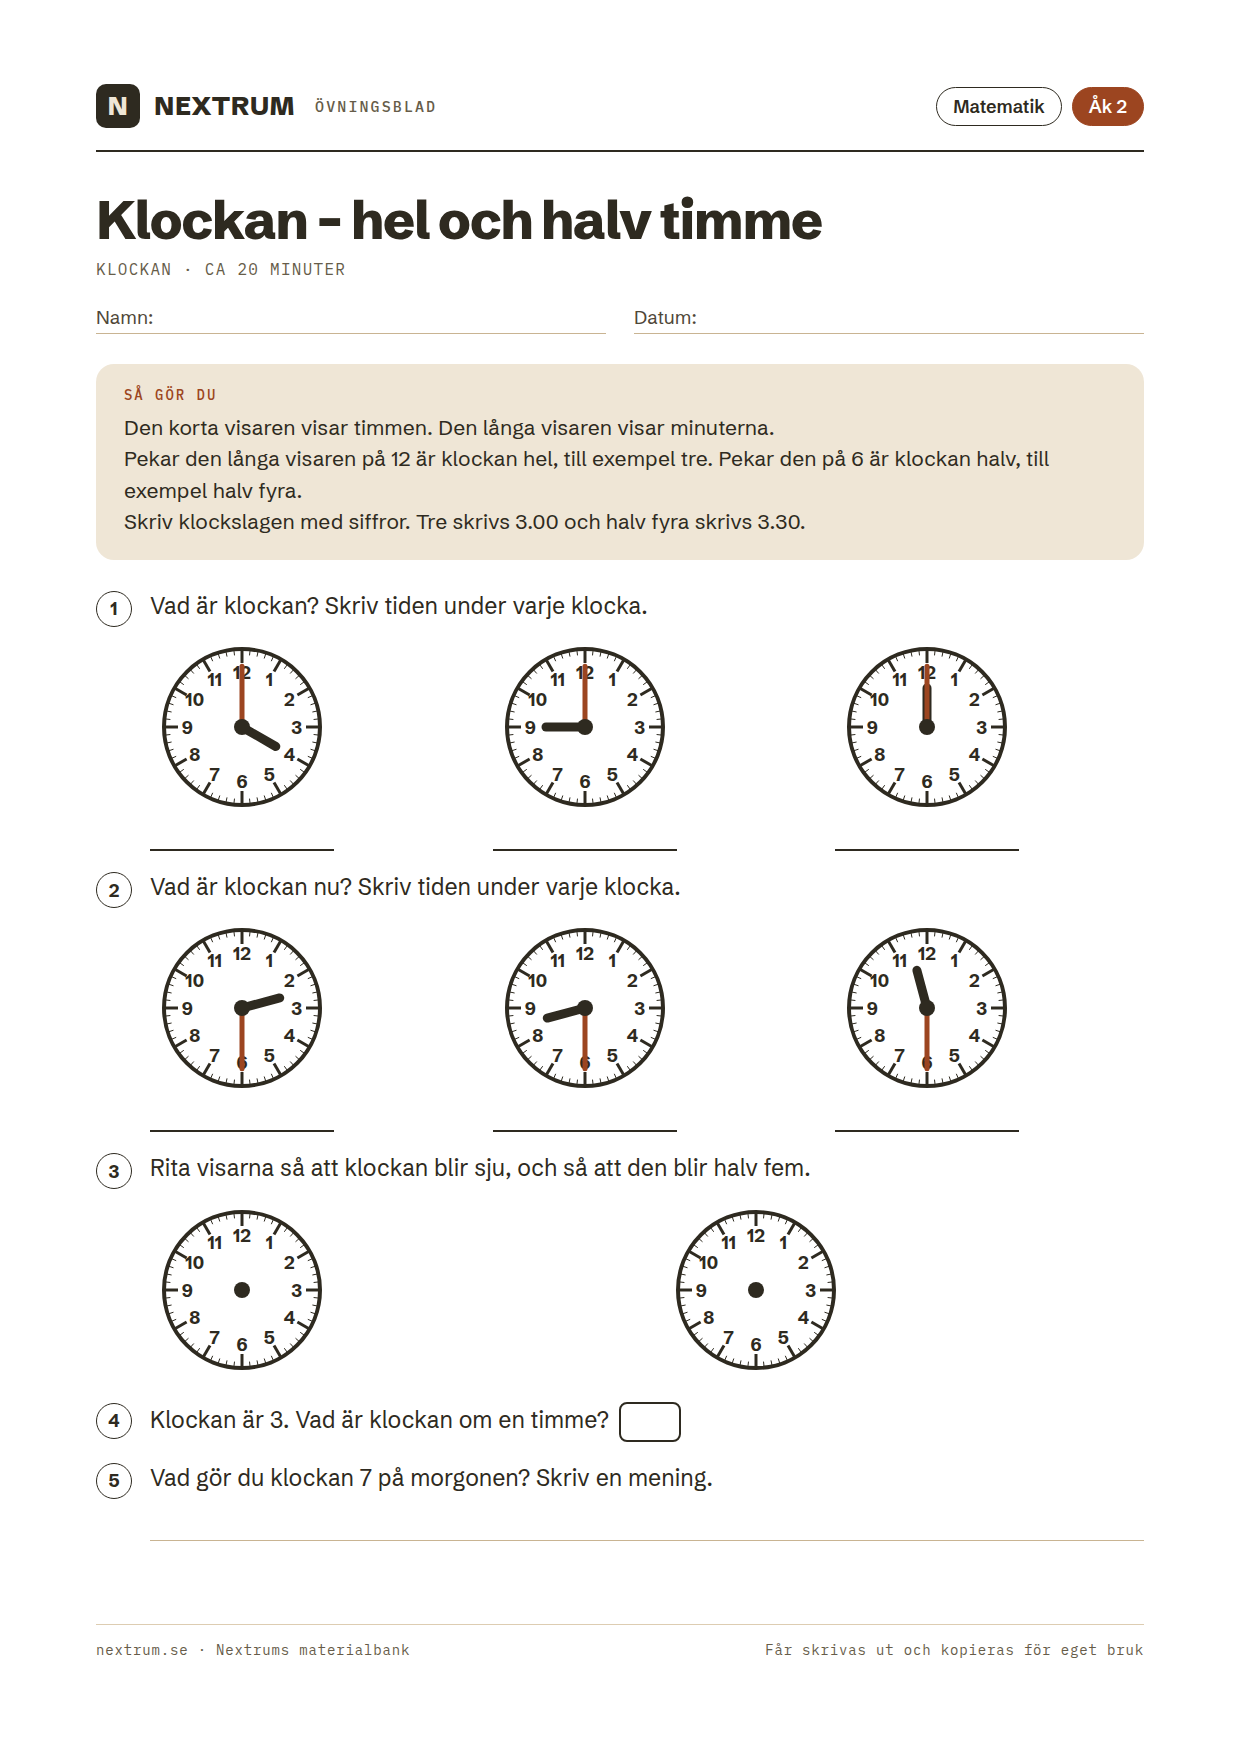
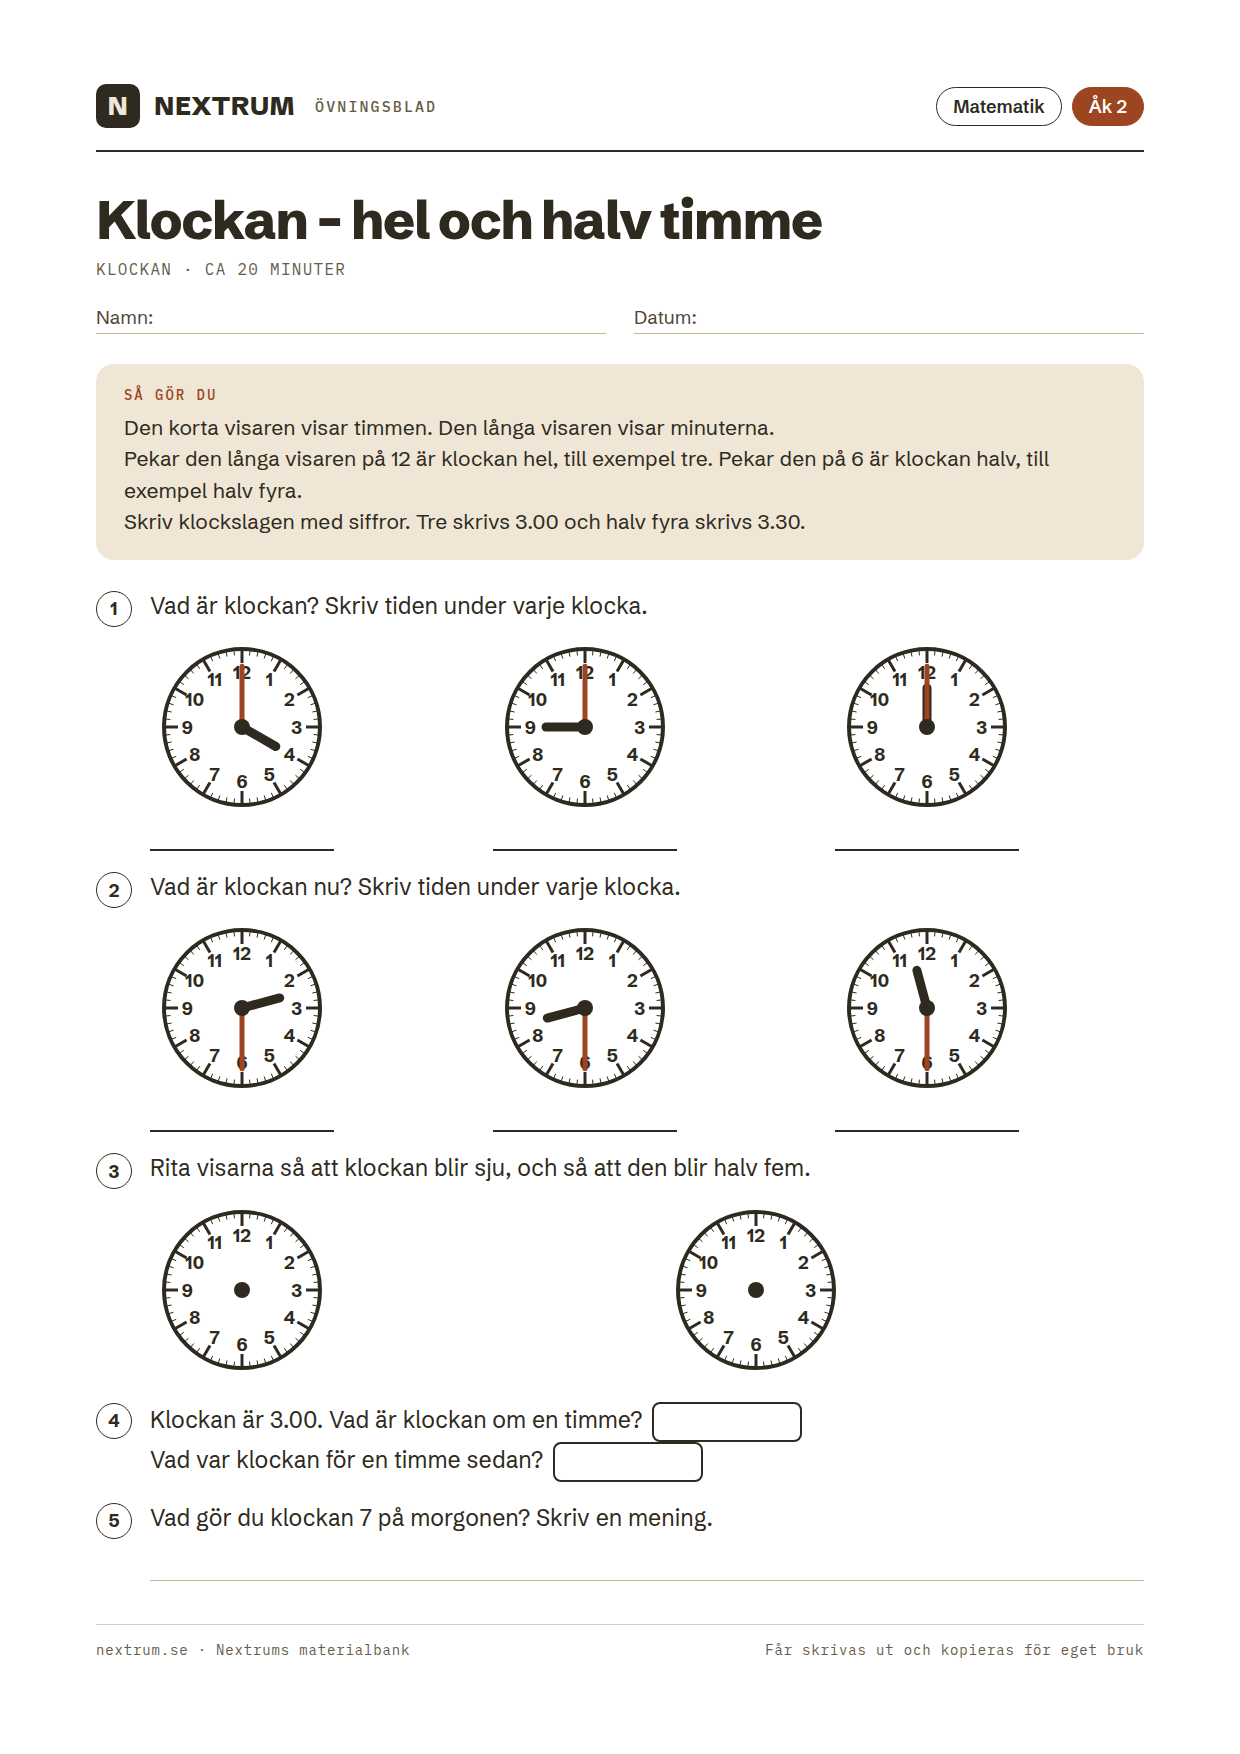
Fas 15.9: facit till lågstadiets 18 blad, och sex rättelser
Facit har 152 svar. Rättat: klockbladet räknar nu en timme både fram och
tillbaka som beskrivningen lovar, svarsrutor för tresiffriga svar är
breda på alla uppgifter så att bredden inte avslöjar svaret, handspannet
blev en mätning från tummen till lillfingret, "en mitt" i stället för
"en mitten", och rimbladets exempel var svaret på uppgift 3.

Claude-Session: https://claude.ai/code/session_011LBvXSaptKobfKq6P5G3d3

Changed region(s): [[0.1226, 0.8005, 0.5823, 0.8928]]

diff --git a/verktyg/bladen/facit_lagstadiet.py b/verktyg/bladen/facit_lagstadiet.py
@@ -1,0 +1,210 @@
+# -*- coding: utf-8 -*-
+"""Facit till bladen i lagstadiet.py: ett svar per uppgift, i bladets ordning. Läs om facit i bygg-banken.py."""
+
+FACIT = {
+    'ak1-matematik-tiokamrater': [
+        '3  (7 + 3 = 10)',
+        '7  (3 + 7 = 10)',
+        '5  (5 + 5 = 10)',
+        '1  (9 + 1 = 10)',
+        '6  (6 + 4 = 10)',
+        '8  (2 + 8 = 10)',
+        '4  (6 + 4 = 10)',
+        '2  (10 = 8 + 2)',
+        'Eget svar. Två tal som blir 10 tillsammans, till exempel 1 + 9, 2 + 8, 3 + 7, 4 + 6, 5 + 5 eller 0 + 10.',
+        '6. Bilden ska visa 10 prickar med 4 av dem inringade; 10 − 4 = 6 är inte inringade.',
+    ],
+
+    'ak2-svenska-stor-bokstav-och-punkt': [
+        'Idag regnar det i Malmö.  (Också rätt: I dag regnar det i Malmö.) Malmö är en plats.',
+        'Min hund heter Bamse.  (Bamse är ett namn på ett djur.)',
+        'Vi ska åka till farmor på lördag.  (Bara Vi får stor bokstav: farmor och lördag skrivs med liten bokstav.)',
+        'Elsa och Omar spelar fotboll.  (Elsa och Omar är namn.)',
+        'Jag har en röd cykel.',
+        'Eget svar. En hel mening om helgen som börjar med stor bokstav och slutar med punkt, och där namn har stor bokstav. Till exempel: I lördags badade jag med Ali.',
+    ],
+
+    'ak3-matematik-multiplikation': [
+        '8',
+        '30',
+        '30',
+        '14',
+        '45',
+        '80',
+        '7  (7 · 5 = 35)',
+        '9  (9 · 2 = 18)',
+        '30 kakor. 6 · 5 = 30 (eller 5 + 5 + 5 + 5 + 5 + 5 = 30).',
+        '40 kr. 4 · 10 = 40 (eller 10 + 10 + 10 + 10 = 40).',
+    ],
+
+    'ak1-matematik-plus-och-minus-till-20': [
+        '13',
+        '16',
+        '12',
+        '16',
+        '12',
+        '7',
+        '8',
+        '12',
+        '13 äpplen  (9 + 4 = 13)',
+        '9 fåglar  (14 − 5 = 9)',
+    ],
+
+    'ak1-matematik-storre-an-mindre-an-och-talfoljder': [
+        '12 > 9',
+        '5 < 8',
+        '6 + 2 = 8',
+        '14 < 17',
+        '10 > 7 + 2  (7 + 2 = 9)',
+        '10, 12  (två mer varje gång)',
+        '25, 30  (fem mer varje gång)',
+        '12, 10  (två mindre varje gång)',
+        '13',
+        '29',
+        '50',
+    ],
+
+    'ak1-svenska-rimord': [
+        'hus',
+        'krok',
+        'katt',
+        'stol',
+        'pil',
+        'Eget svar. Ett ord som slutar som tak, till exempel bak, rak, smak eller vak.',
+        'Eget svar. Ett ord som slutar som tåg, till exempel våg, såg, låg eller råg.',
+        'Eget svar. Två bilder av saker vars namn rimmar, med orden under, till exempel katt och hatt, mus och hus eller sol och stol.',
+    ],
+
+    'ak1-svenska-las-och-svara-mias-hund': [
+        'Pelle.  (Andra meningen: "Hunden heter Pelle.")',
+        'Han är liten och brun.  ("Pelle är liten och brun.")',
+        'En boll.  ("Han tycker om att leka med en boll.")',
+        'Till parken.  ("De går till parken.")',
+        'I sin korg.  (Sista meningen: "Hemma sover Pelle i sin korg.")',
+        'Eget svar. En liten brun hund i en park, gärna med en boll.',
+    ],
+
+    'ak1-no-arstiderna': [
+        'vår, sommar, höst, vinter',
+        'Hösten.',
+        'Vintern.',
+        'Våren.',
+        'Eget svar. Två varma kläder, till exempel mössa, vantar, halsduk, vinterjacka, overall eller vinterkängor.',
+        'Eget svar. En årstid och ett skäl, till exempel: Sommaren, för då kan jag bada.',
+        'Eget svar. En bild av sommaren, till exempel sol, gröna träd, blommor, bad eller glass.',
+    ],
+
+    'ak2-matematik-tiotal-och-ental': [
+        '6 tiotal och 2 ental',
+        '8 tiotal och 5 ental',
+        '30  (34 = 30 + 4)',
+        '79',
+        '53',
+        '46',
+        '42',
+        '70',
+        '40',
+        '38, 48, 83, 84',
+        '2 tiotal och 3 ental. Bilden ska visa 23 prickar med två ringar om tio prickar var och 3 prickar utanför.',
+    ],
+
+    'ak2-matematik-klockan': [
+        'Från vänster: 4.00, 9.00 och 12.00.',
+        'Från vänster: 2.30 (halv tre), 8.30 (halv nio) och 11.30 (halv tolv).',
+        'Sju: den korta visaren pekar på 7 och den långa på 12.\nHalv fem: den långa visaren pekar på 6 och den korta står mitt emellan 4 och 5.',
+        'Om en timme: 4.00 (fyra)\nFör en timme sedan: 2.00 (två)',
+        'Eget svar. En hel mening om vad eleven gör klockan sju på morgonen, till exempel: Klockan 7 äter jag frukost.',
+    ],
+
+    'ak2-matematik-pengar': [
+        '8 kr',
+        '25 kr',
+        '30 kr',
+        '11 kr  (2 + 2 + 2 + 5 = 11)',
+        '3 kr  (10 − 7 = 3)',
+        '5 kr  (20 − 15 = 5)',
+        '14 kr  (8 + 6 = 14)',
+        '20 kr  (50 − 30 = 20)',
+        'Eget svar. Två olika sätt med mynt som blir 10 kr, till exempel 5 + 5, 5 + 2 + 2 + 1, 2 + 2 + 2 + 2 + 2 eller en tiokrona.',
+        'Eget svar. Mynt som blir 12 kr, till exempel 10 kr + 2 kr, 5 kr + 5 kr + 2 kr eller 10 kr + 1 kr + 1 kr.',
+    ],
+
+    'ak2-svenska-substantiv-och-verb': [
+        'Hunden och mattan.',
+        'kastar',
+        'cykel S, hoppar V, bord S, skrattar V',
+        'Eget svar. Tre saker i klassrummet, till exempel bänk, tavla och penna.',
+        'Eget svar. Tre saker man gör, till exempel springer, hoppar och leker.',
+        'Till exempel dricker. Andra verb som passar: lapar, slickar, älskar.',
+        'Eget svar. En hel mening med ordet cykel, med stor bokstav och punkt. Till exempel: Min cykel är blå.',
+        'Eget svar. En hel mening med ordet springer, med stor bokstav och punkt. Till exempel: Hunden springer i parken.',
+    ],
+
+    'ak2-no-vaxtens-delar': [
+        'Roten (rötterna).',
+        'Stjälken.',
+        'Blomman.',
+        'Eget svar. Tre av: vatten, ljus (solljus), luft, näring ur jorden och värme.',
+        'Eget svar. Till exempel mat (frukt, grönsaker, säd), syre att andas, trä eller papper.',
+        'Eget svar. Blomman vissnar och dör till slut, för den behöver vatten för att leva.',
+        'Eget svar. En växt med rot under jorden, en stjälk, minst ett blad och en blomma, med de fyra namnen utskrivna.',
+    ],
+
+    'ak3-matematik-addition-och-subtraktion-med-vaxling': [
+        '84. Ental: 6 + 8 = 14, skriv 4 och växla 1 tiotal. Tiotal: 4 + 3 + 1 = 8.',
+        '212. Ental: 7 + 5 = 12, växla 1. Tiotal: 2 + 8 + 1 = 11, växla 1. Hundratal: 1 + 1 = 2.',
+        '623. Ental: 4 + 9 = 13, växla 1. Tiotal: 6 + 5 + 1 = 12, växla 1. Hundratal: 2 + 3 + 1 = 6.',
+        '45. Växla ett tiotal: 13 − 8 = 5 ental, 6 − 2 = 4 tiotal.',
+        '85. Växla ett tiotal: 12 − 7 = 5. Växla ett hundratal: 14 − 6 = 8.',
+        '257. Växla i två steg: 400 = 3 hundratal, 9 tiotal och 10 ental. 10 − 3 = 7, 9 − 4 = 5, 3 − 1 = 2.',
+        '353 böcker. 235 + 118 = 353 (5 + 8 = 13, växla 1; 3 + 1 + 1 = 5; 2 + 1 = 3).',
+        '215 kr. 500 − 285: växla till 4 hundratal, 9 tiotal och 10 ental. 10 − 5 = 5, 9 − 8 = 1, 4 − 2 = 2.',
+    ],
+
+    'ak3-matematik-division-dela-lika': [
+        '5',
+        '3',
+        '5',
+        '6',
+        '3',
+        '8',
+        '3 kex  (12 : 4 = 3)',
+        '4 grupper  (20 : 5 = 4)',
+        '3 · 7 = 21 (också rätt: 7 · 3 = 21)',
+        'Eget svar. En berättelse där 8 saker delas lika på 2, så att var och en får 4. Till exempel: 8 bullar delas lika mellan 2 barn, och varje barn får 4.',
+    ],
+
+    'ak3-matematik-langd-och-mat': [
+        '100 cm',
+        '30 cm',
+        '20 dm',
+        '5 dm',
+        '15 cm',
+        '2 m',
+        '1 cm, 15 cm, 2 dm, 1 m  (2 dm = 20 cm och 1 m = 100 cm)',
+        '7 cm. 135 − 128 = 7.',
+        '215 cm. 3 m = 300 cm, och 300 − 85 = 215.',
+        'Eget svar. Ett uppmätt värde i hela centimeter; för ett barn i åk 3 är ungefär 13–18 cm rimligt.',
+    ],
+
+    'ak3-svenska-skriv-en-berattelse': [
+        'Eget svar. Vem berättelsen handlar om (en person, ett djur eller en figur) och var den utspelar sig.',
+        'Eget svar. 2–3 meningar som presenterar personen och platsen, gärna med början "En dag hittade ...". Stor bokstav och punkt.',
+        'Eget svar. Något spännande eller roligt som händer, ett problem eller en överraskning, som hänger ihop med början.',
+        'Eget svar. Ett slut där det som hände löser sig, till exempel att problemet blir löst eller att personen kommer hem.',
+        'Eget svar. En kort rubrik som passar berättelsen och gör en nyfiken, till exempel "Nyckeln i sanden".',
+    ],
+
+    'ak3-engelska-colours-and-numbers': [
+        'red',
+        'blue',
+        'yellow',
+        'green',
+        'seven = 7, ten = 10, four = 4',
+        '3 = three, 5 = five, 8 = eight',
+        'three, six  (one, two, three, four, five, six)',
+        'yellow  (The sun is yellow.)',
+        'green  (Grass is green.)',
+        'Eget svar. En färg på engelska, till exempel My favourite colour is blue.',
+    ],
+}

diff --git a/verktyg/bladen/lagstadiet.py b/verktyg/bladen/lagstadiet.py
@@ -64,7 +64,7 @@ BLAD = [
 
     dict(fil='ak1-svenska-rimord', arskurs='ak1', amne='Svenska',
          titel='Rimord', omrade='Rim och ljud', tid='15 minuter',
-         instruktion=['Ord som låter lika i slutet rimmar. Katt och hatt rimmar.',
+         instruktion=['Ord som låter lika i slutet rimmar. Boll och troll rimmar.',
                       'Läs orden högt, för dig själv eller för en vuxen. Lyssna på hur de slutar.'],
          uppgifter=[('Ringa in ordet som rimmar på mus: hus – bil – ros', 0),
                     ('Ringa in ordet som rimmar på bok: krok – bil – sol', 0),
@@ -129,7 +129,7 @@ BLAD = [
                      klockor((2, 30), (8, 30), (11, 30))),
                     ('Rita visarna så att klockan blir sju, och så att den blir halv fem.', 0,
                      klockor(None, None, skrivfalt=False)),
-                    ('Klockan är 3. Vad är klockan om en timme? []', 0),
+                    ('Klockan är 3.00. Vad är klockan om en timme? [[]]\nVad var klockan för en timme sedan? [[]]', 0),
                     ('Vad gör du klockan 7 på morgonen? Skriv en mening.', 1)],
          beskrivning='Hel och halv timme på analog klocka: läsa av, rita visare och räkna en timme fram och tillbaka.'),
 
@@ -181,8 +181,8 @@ BLAD = [
          instruktion=['Ställ upp talen under varandra: ental under ental och tiotal under tiotal.',
                       'Börja räkna längst till höger. Kom ihåg att växla när det behövs.',
                       'Skriv svaret i rutan och visa hur du räknade.'],
-         uppgifter=[('46 + 38 = []', 1), ('127 + 85 = []', 1), ('264 + 359 = []', 1),
-                    ('73 − 28 = []', 1), ('152 − 67 = []', 1), ('400 − 143 = []', 1),
+         uppgifter=[('46 + 38 = [[]]', 1), ('127 + 85 = [[]]', 1), ('264 + 359 = [[]]', 1),
+                    ('73 − 28 = [[]]', 1), ('152 − 67 = [[]]', 1), ('400 − 143 = [[]]', 1),
                     ('Det finns 235 böcker i skolbiblioteket. Det kommer 118 nya böcker. '
                      'Hur många böcker finns det nu?', 2),
                     ('Farmor har 500 kr. Hon köper en jacka för 285 kr. Hur mycket har hon kvar?', 2)],
@@ -206,18 +206,18 @@ BLAD = [
          instruktion=['Längd mäter vi i millimeter (mm), centimeter (cm), decimeter (dm) och meter (m).',
                       '1 cm = 10 mm, 1 dm = 10 cm och 1 m = 10 dm = 100 cm.',
                       'Skriv svaret i rutan. Skriv enheten också när den inte står efter rutan.'],
-         uppgifter=[('1 m = [] cm', 0), ('3 dm = [] cm', 0), ('2 m = [] dm', 0), ('50 cm = [] dm', 0),
+         uppgifter=[('1 m = [[]] cm', 0), ('3 dm = [] cm', 0), ('2 m = [] dm', 0), ('50 cm = [] dm', 0),
                     ('Ringa in det som är mest rimligt: En penna är 15 cm – 15 dm – 15 m lång.', 0),
                     ('Ringa in det som är mest rimligt: En dörr är 2 cm – 2 dm – 2 m hög.', 0),
                     ('Ordna från kortast till längst: 1 m, 15 cm, 2 dm, 1 cm', 1),
                     ('Sam är 128 cm lång och Eli är 135 cm lång. Hur mycket längre är Eli?', 1),
                     ('Ett rep är 3 m långt. Du klipper av 85 cm. Hur långt är repet nu? Svara i cm.', 2),
-                    ('Mät din handspann med en linjal. Skriv hur lång den är: ___ cm', 0)],
+                    ('Spreta med fingrarna. Mät med en linjal från tummen till lillfingret: ___ cm', 0)],
          beskrivning='Enheterna mm, cm, dm och m: växla mellan dem, uppskatta längder och räkna med dem.'),
 
     dict(fil='ak3-svenska-skriv-en-berattelse', arskurs='ak3', amne='Svenska',
          titel='Skriv en berättelse', omrade='Skriva berättande text', tid='30 minuter',
-         instruktion=['En berättelse har en början, en mitten och ett slut.',
+         instruktion=['En berättelse har en början, en mitt och ett slut.',
                       'I början berättar du vem det handlar om och var det händer. I mitten händer något spännande '
                       'eller roligt. I slutet löser sig det som hänt.',
                       'Börja varje mening med stor bokstav och sluta med punkt.'],
